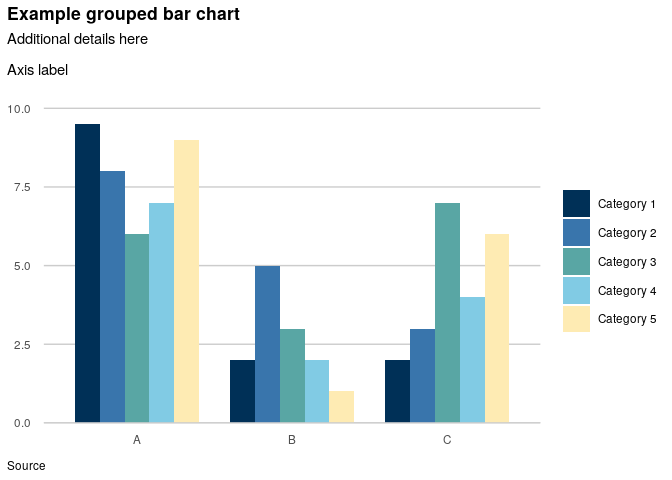
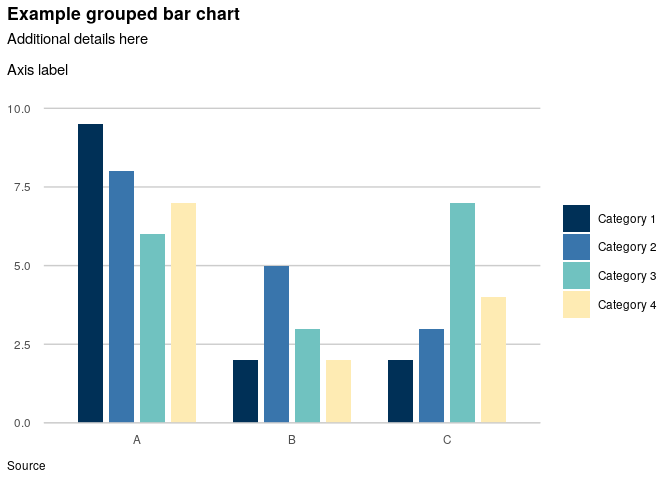
Minor readme updates

diff --git a/README.md b/README.md
@@ -74,7 +74,7 @@ axis tick marks. Setting the parameter `flipped = TRUE` reverses the x
 and y axes for use with `coord_flip()`.
 
 Note that the name `theme_gss()` is because the Analysis Function
-Guidance was previously provided by the Government Statistical Service
+guidance was previously provided by the Government Statistical Service
 (GSS).
 
 ## Colour palettes
@@ -142,7 +142,7 @@ colour scheme, as shown for every colour scheme
 ## Accessing individual colours
 
 `moj_colours()` provides the hex codes for all MoJ corporate colours.
-`govanal_colours` provides the Government Analysis Function colours.
+`govanal_colours()` provides the Government Analysis Function colours.
 `palette_colours()` provides all colours used in the mojchart colour
 palettes. Running one of these functions with no arguments returns a
 vector containing all of the available colours. Passing the names of
@@ -214,15 +214,15 @@ ggplot(familystarts_reduced(6), aes(x = year_qtr, y = count, colour = case_type)
 ### Example 2: grouped bar chart
 
 ``` r
-ggplot(bars(5), aes(x = col1, y = col3, fill = col2)) +
-  geom_col(position = position_dodge2(padding = 0), width = 0.8) +
+ggplot(bars(4), aes(x = col1, y = col3, fill = col2)) +
+  geom_col(position = position_dodge2(padding = 0.2), width = 0.8) +
   labs(title = "Example grouped bar chart",
        subtitle = "Additional details here\n\nAxis label",
        caption = "Source") +
   scale_y_continuous(expand = expansion(mult = c(0, 0.05))) +
   expand_limits(y = 10) +
   theme_gss() +
-  scale_fill_moj(5, scheme = "muted2")
+  scale_fill_moj(4, scheme = "muted2")
 ```
 
 ![](man/figures/README-example2-1.png)<!-- -->
@@ -231,7 +231,7 @@ ggplot(bars(5), aes(x = col1, y = col3, fill = col2)) +
 
 ``` r
 ggplot(bars(3), aes(x = col1, y = col3, fill = col2)) +
-  geom_col(position = "dodge", width = 0.7) +
+  geom_col(position = "dodge2", width = 0.8) +
   coord_flip() +
   labs(title = "Example horizontal bar chart",
        subtitle = "Additional details here\n",
